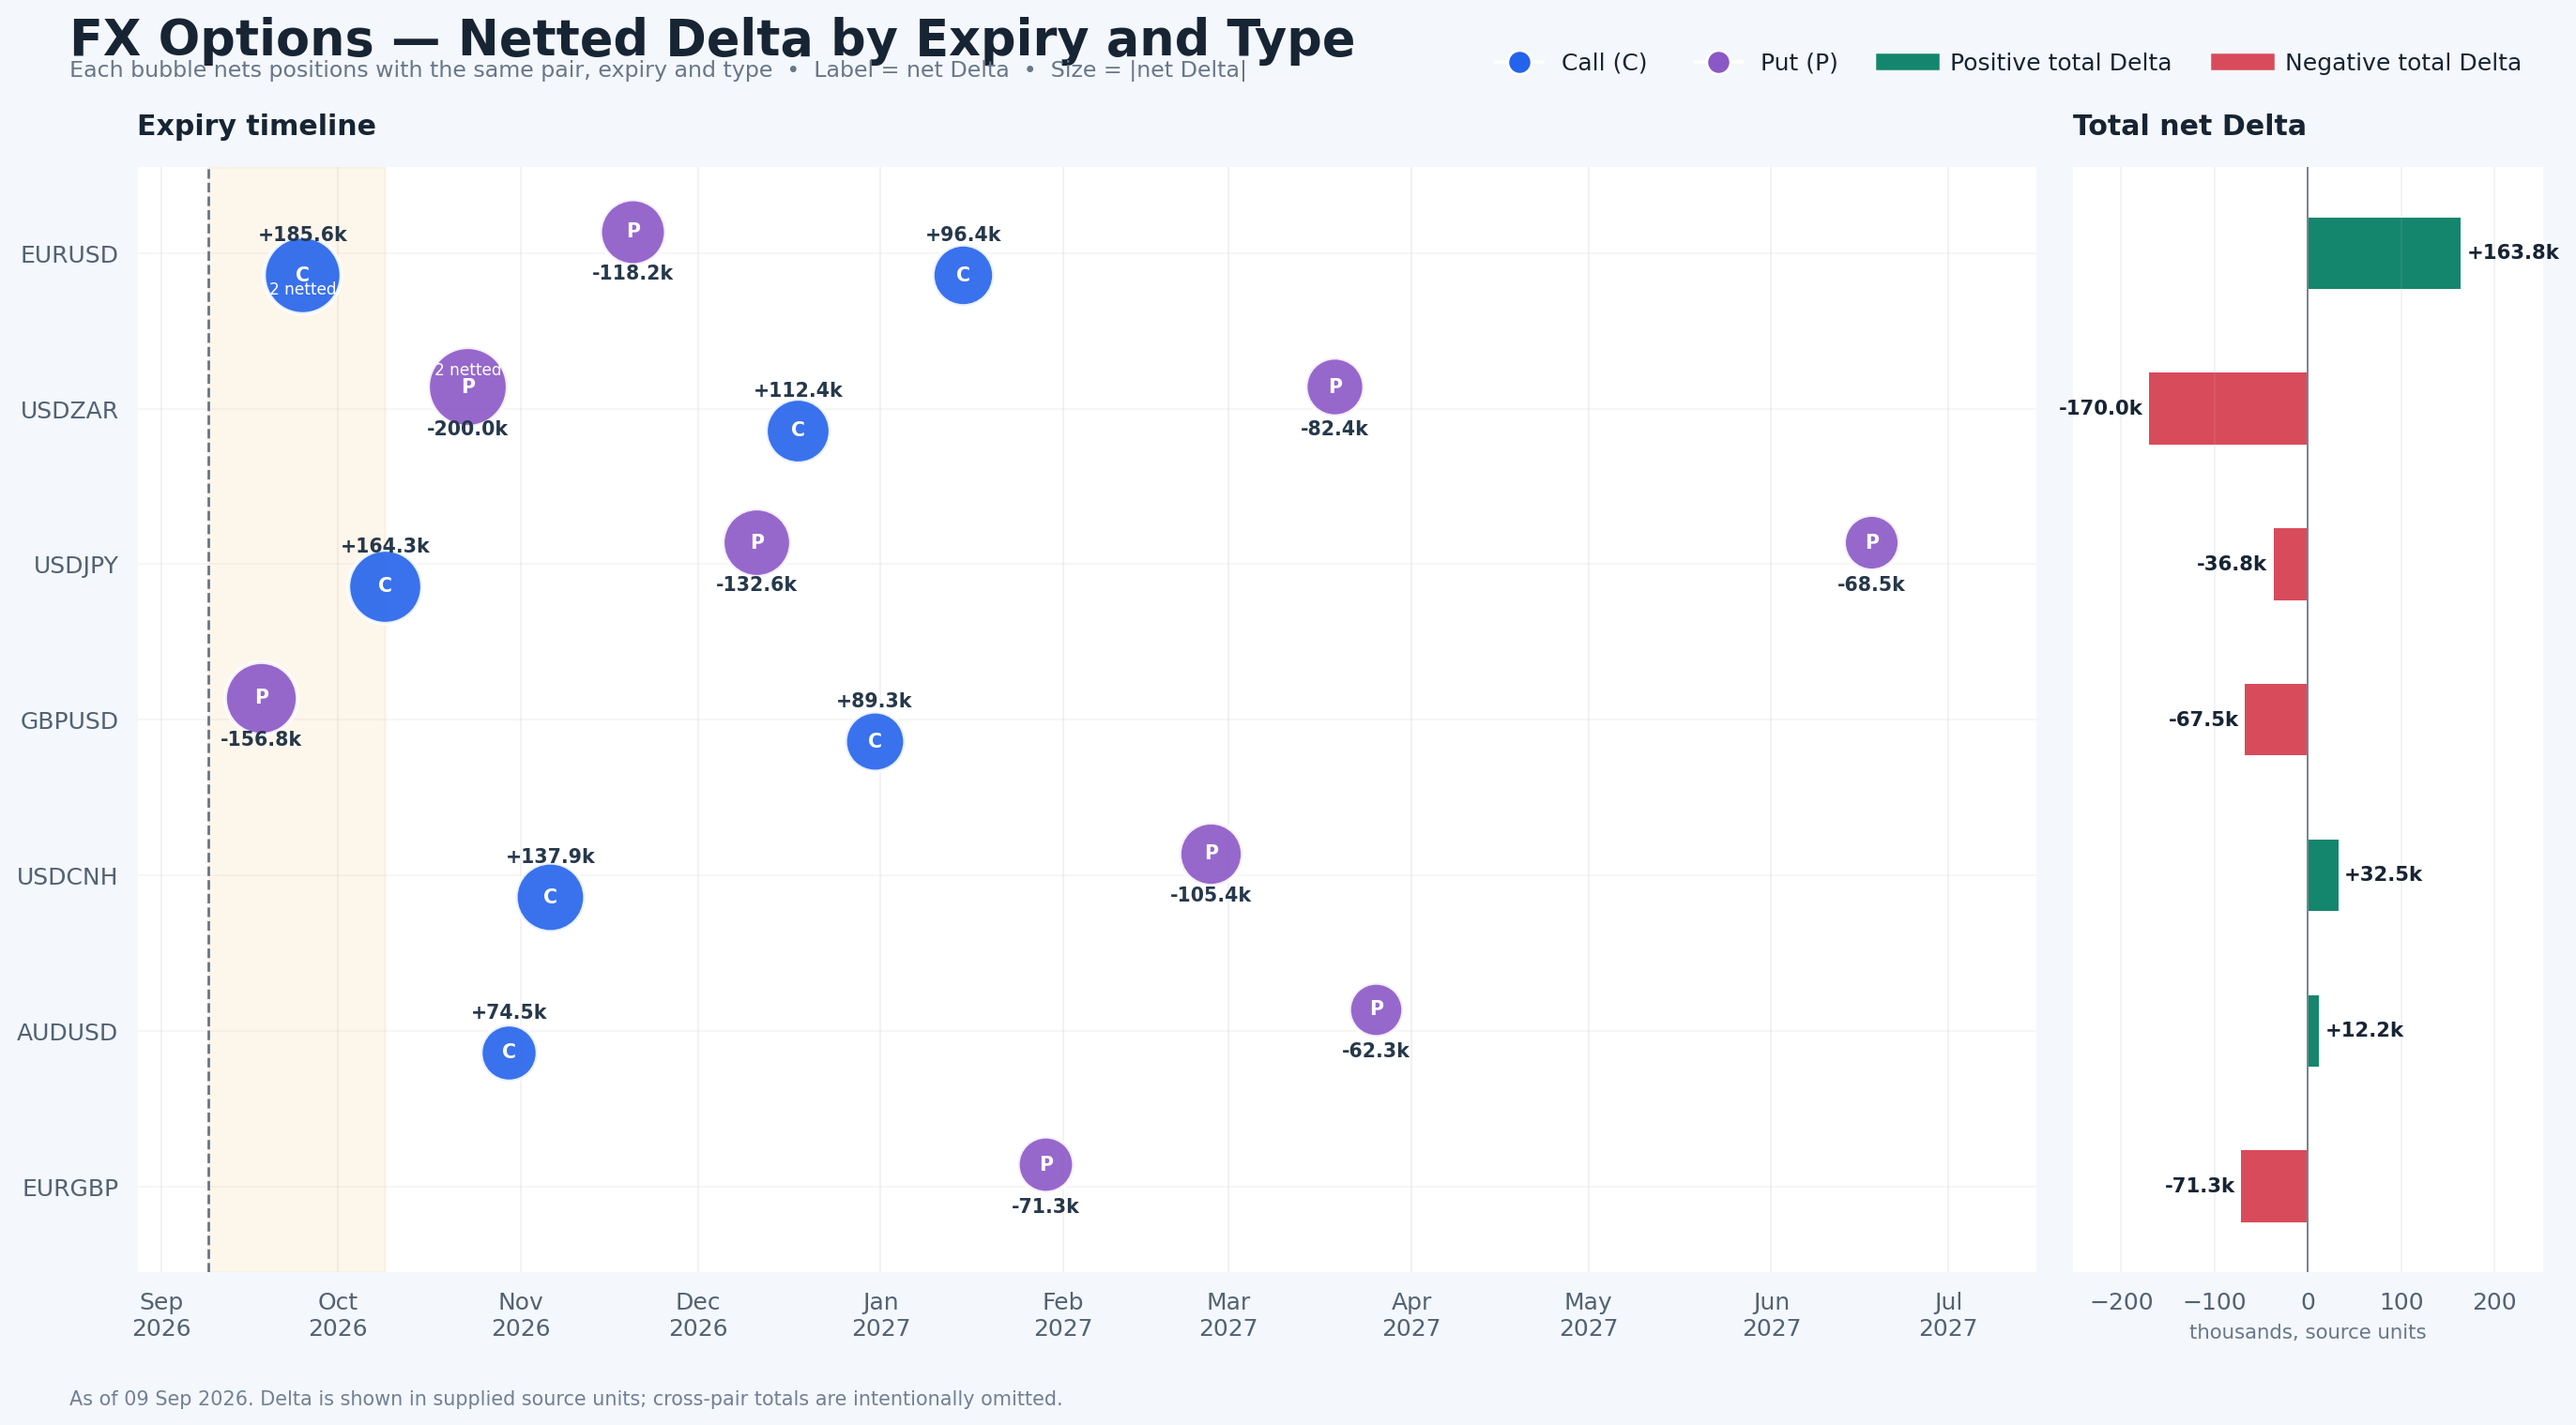
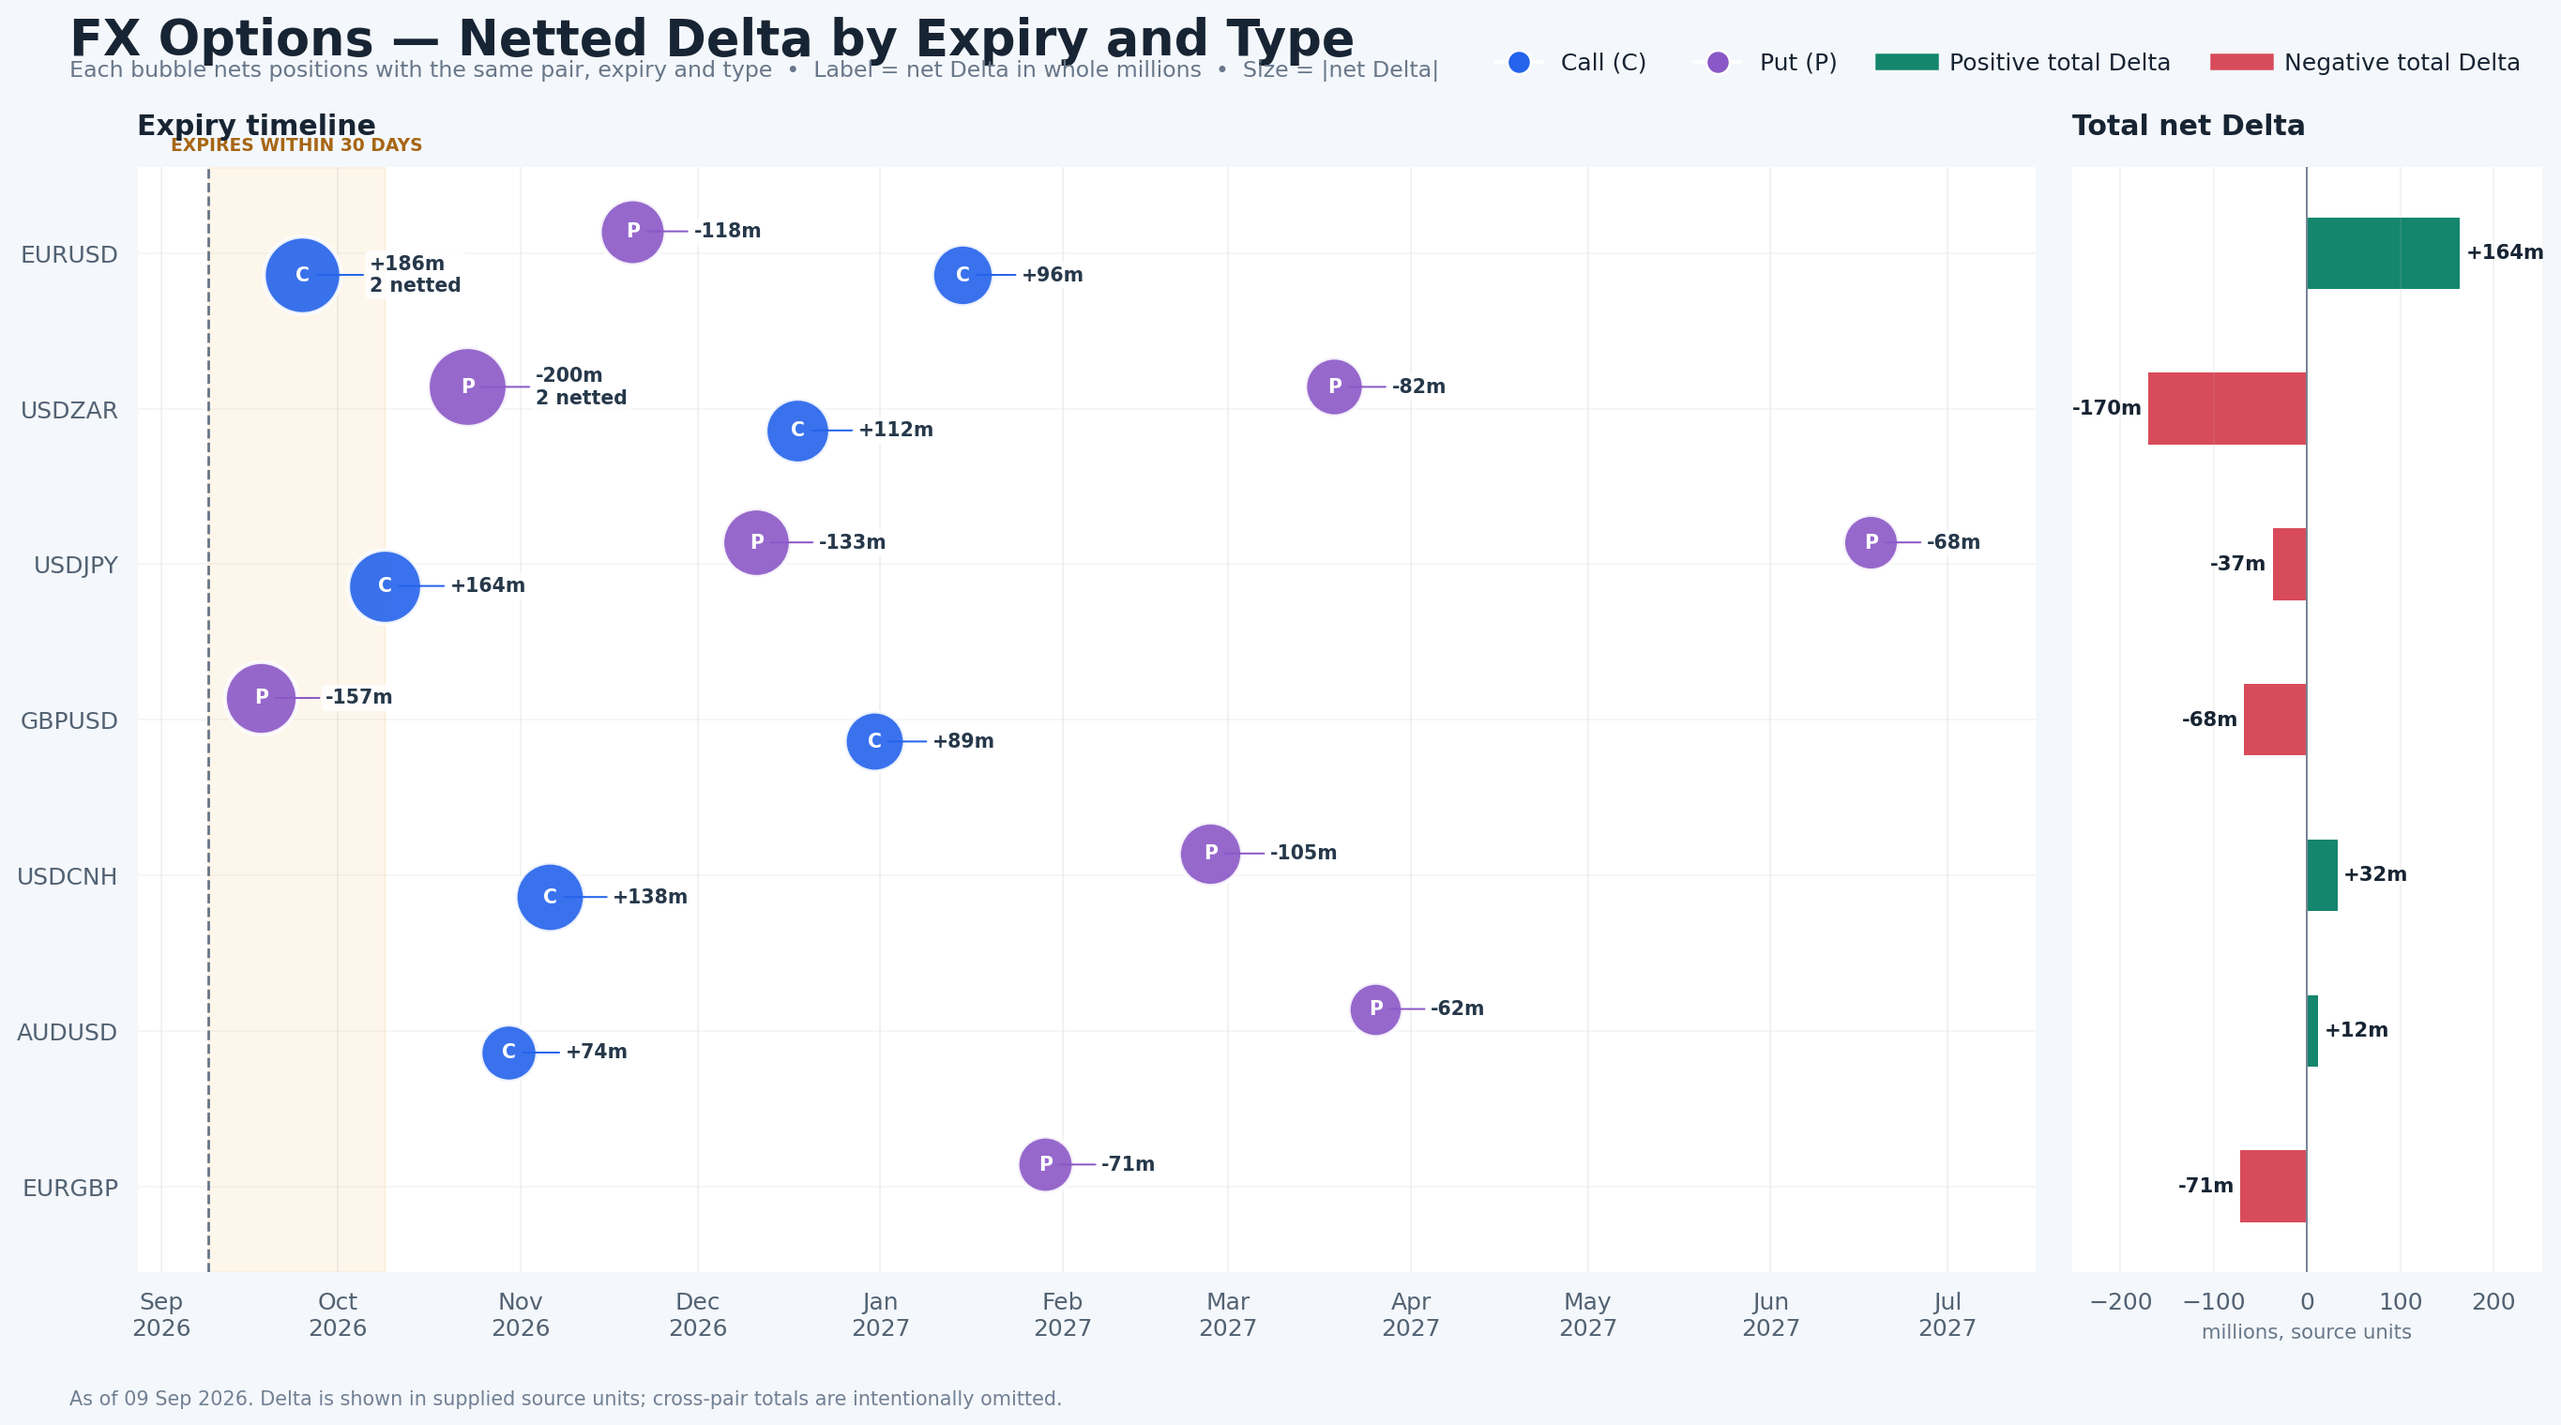
Improve FX option bubble labels

diff --git a/FXO/plot_netted_delta_expiry.py b/FXO/plot_netted_delta_expiry.py
@@ -112,21 +112,34 @@ def draw_chart(net: pd.DataFrame, output: Path, as_of: pd.Timestamp) -> None:
                 fontsize=8.2, weight="bold", color="white", zorder=4,
             )
             timeline.annotate(
-                f"{row.NetDelta / 1_000:+.1f}k", (row.ExpiryDate, y),
-                xytext=(0, 17 if option_type == "Call" else -18),
-                textcoords="offset points", ha="center", va="center",
-                fontsize=8.2, weight="bold", color="#26384a",
+                f"{row.NetDelta / 1_000:+.0f}m"
+                + (f"\n{row.Positions} netted" if row.Positions > 1 else ""),
+                (row.ExpiryDate, y),
+                xytext=(np.sqrt(bubble_size) / 2 + 12, 0),
+                textcoords="offset points",
+                ha="left",
+                va="center",
+                fontsize=8.2,
+                weight="bold",
+                color="#26384a",
+                bbox={"boxstyle": "round,pad=0.2", "facecolor": "white", "edgecolor": "none", "alpha": 0.88},
+                arrowprops={"arrowstyle": "-", "color": color, "linewidth": 0.8, "shrinkA": 1, "shrinkB": 6},
+                zorder=5,
             )
-            if row.Positions > 1:
-                timeline.annotate(
-                    f"{row.Positions} netted", (row.ExpiryDate, y),
-                    xytext=(0, -6 if option_type == "Call" else 7),
-                    textcoords="offset points", ha="center", va="center",
-                    fontsize=6.8, color="white", zorder=4,
-                )
 
     timeline.axvline(as_of, color="#657588", linewidth=1.1, linestyle="--")
     timeline.axvspan(as_of, as_of + pd.Timedelta(days=30), color="#f3b65c", alpha=0.12)
+    timeline.text(
+        as_of + pd.Timedelta(days=15),
+        1.012,
+        "EXPIRES WITHIN 30 DAYS",
+        transform=timeline.get_xaxis_transform(),
+        ha="center",
+        va="bottom",
+        fontsize=7.5,
+        weight="bold",
+        color="#a76614",
+    )
     timeline.set_yticks(range(len(pair_order)), pair_order)
     timeline.invert_yaxis()
     timeline.set_xlim(
@@ -153,11 +166,11 @@ def draw_chart(net: pd.DataFrame, output: Path, as_of: pd.Timestamp) -> None:
     total_ax.grid(axis="x", alpha=0.14)
     total_ax.spines[["top", "right", "left", "bottom"]].set_visible(False)
     total_ax.set_title("Total net Delta", loc="left", fontsize=12, weight="bold", pad=14)
-    total_ax.set_xlabel("thousands, source units", fontsize=8.5, color="#687789")
+    total_ax.set_xlabel("millions, source units", fontsize=8.5, color="#687789")
     for i, value in enumerate(totals):
         total_ax.text(
             value + (bound * 0.025 if value >= 0 else -bound * 0.025), i,
-            f"{value:+.1f}k", ha="left" if value >= 0 else "right",
+            f"{value:+.0f}m", ha="left" if value >= 0 else "right",
             va="center", fontsize=8.5, weight="bold",
         )
 
@@ -168,7 +181,7 @@ def draw_chart(net: pd.DataFrame, output: Path, as_of: pd.Timestamp) -> None:
     fig.text(
         0.055, 0.943,
         "Each bubble nets positions with the same pair, expiry and type  •  "
-        "Label = net Delta  •  Size = |net Delta|",
+        "Label = net Delta in whole millions  •  Size = |net Delta|",
         fontsize=9.5, color="#687789",
     )
     legend = [
